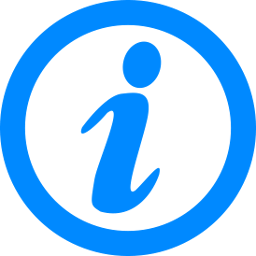
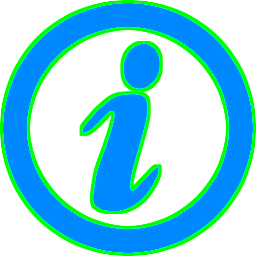
[Tuto] add tutorial button in main menu

Changed region(s): [[0.0938, 0.0938, 0.9062, 0.9062], [0.0, 0.0, 1.0, 1.0]]

diff --git a/pondSkater2/core/src/com/simplebojocs/pondskater2/Menu/MenuScreen.java b/pondSkater2/core/src/com/simplebojocs/pondskater2/Menu/MenuScreen.java
@@ -49,6 +49,7 @@ public class MenuScreen extends InputAdapter implements Screen {
     Vector2 MENU_OPTIONS;
     Vector2 MENU_PLAYGAME;
     Vector2 MENU_SCORES;
+    Vector2 TUTORIALON;
 
 
     float riverPosition;
@@ -59,6 +60,7 @@ public class MenuScreen extends InputAdapter implements Screen {
     Texture RIVER_BANK_TOP;
     Texture RIVER_BANK_BOTTOM;
     Texture AUTO_AD;
+    Texture INFO_BUTTON;
 
     Tutorial tutorial;
     boolean isTutorial;
@@ -85,6 +87,7 @@ public class MenuScreen extends InputAdapter implements Screen {
         FlyButton = new Texture("FlyButton.png");
         WormButton = new Texture("WormButton.png");
         FishButton = new Texture("FishButton.png");
+        INFO_BUTTON = new Texture("info.png");
 
         FlyButtonSprite = new TextureRegion[animationColumns * animationRows];
         WormButtonSprite = new TextureRegion[animationColumns * animationRows];
@@ -149,6 +152,8 @@ public class MenuScreen extends InputAdapter implements Screen {
         float width = viewport.getWorldWidth();
         float height = viewport.getWorldHeight();
 
+        TUTORIALON = new Vector2(CONSTANTS.SCORES_BUBBLE_RADIUS, height * 18/20 -  6* CONSTANTS.SCORES_BUBBLE_RADIUS - CONSTANTS.ADD_BANNER_HEIGHT);
+
         batch.setProjectionMatrix(viewport.getCamera().combined);
 
         batch.begin();
@@ -180,6 +185,8 @@ public class MenuScreen extends InputAdapter implements Screen {
 
         final GlyphLayout hardLayout = new GlyphLayout(font, CONSTANTS.SCORES_LABEL[language]);
         font.draw(batch, CONSTANTS.SCORES_LABEL[language], MENU_SCORES.x, MENU_SCORES.y + hardLayout.height / 2, 0, Align.center, false);
+
+        batch.draw(INFO_BUTTON, TUTORIALON.x-CONSTANTS.SCORES_BUBBLE_RADIUS/2, TUTORIALON.y-CONSTANTS.SCORES_BUBBLE_RADIUS, CONSTANTS.SCORES_BUBBLE_RADIUS, CONSTANTS.SCORES_BUBBLE_RADIUS);
 
         if (isTutorial) {
             tutorial.draw(batch, width, height);
@@ -266,6 +273,11 @@ public class MenuScreen extends InputAdapter implements Screen {
 
             if (worldTouch.dst(MENU_SCORES) < CONSTANTS.MENU_BUBBLE_RADIUS * 2) {
                 game.showTopScoreScreen();
+            }
+            if (worldTouch.dst(TUTORIALON) < CONSTANTS.SCORES_BUBBLE_RADIUS) {
+                tutorial = new Tutorial(language);
+                tutorial.start();
+                isTutorial = true;
             }
         } catch (Exception e) {
 
